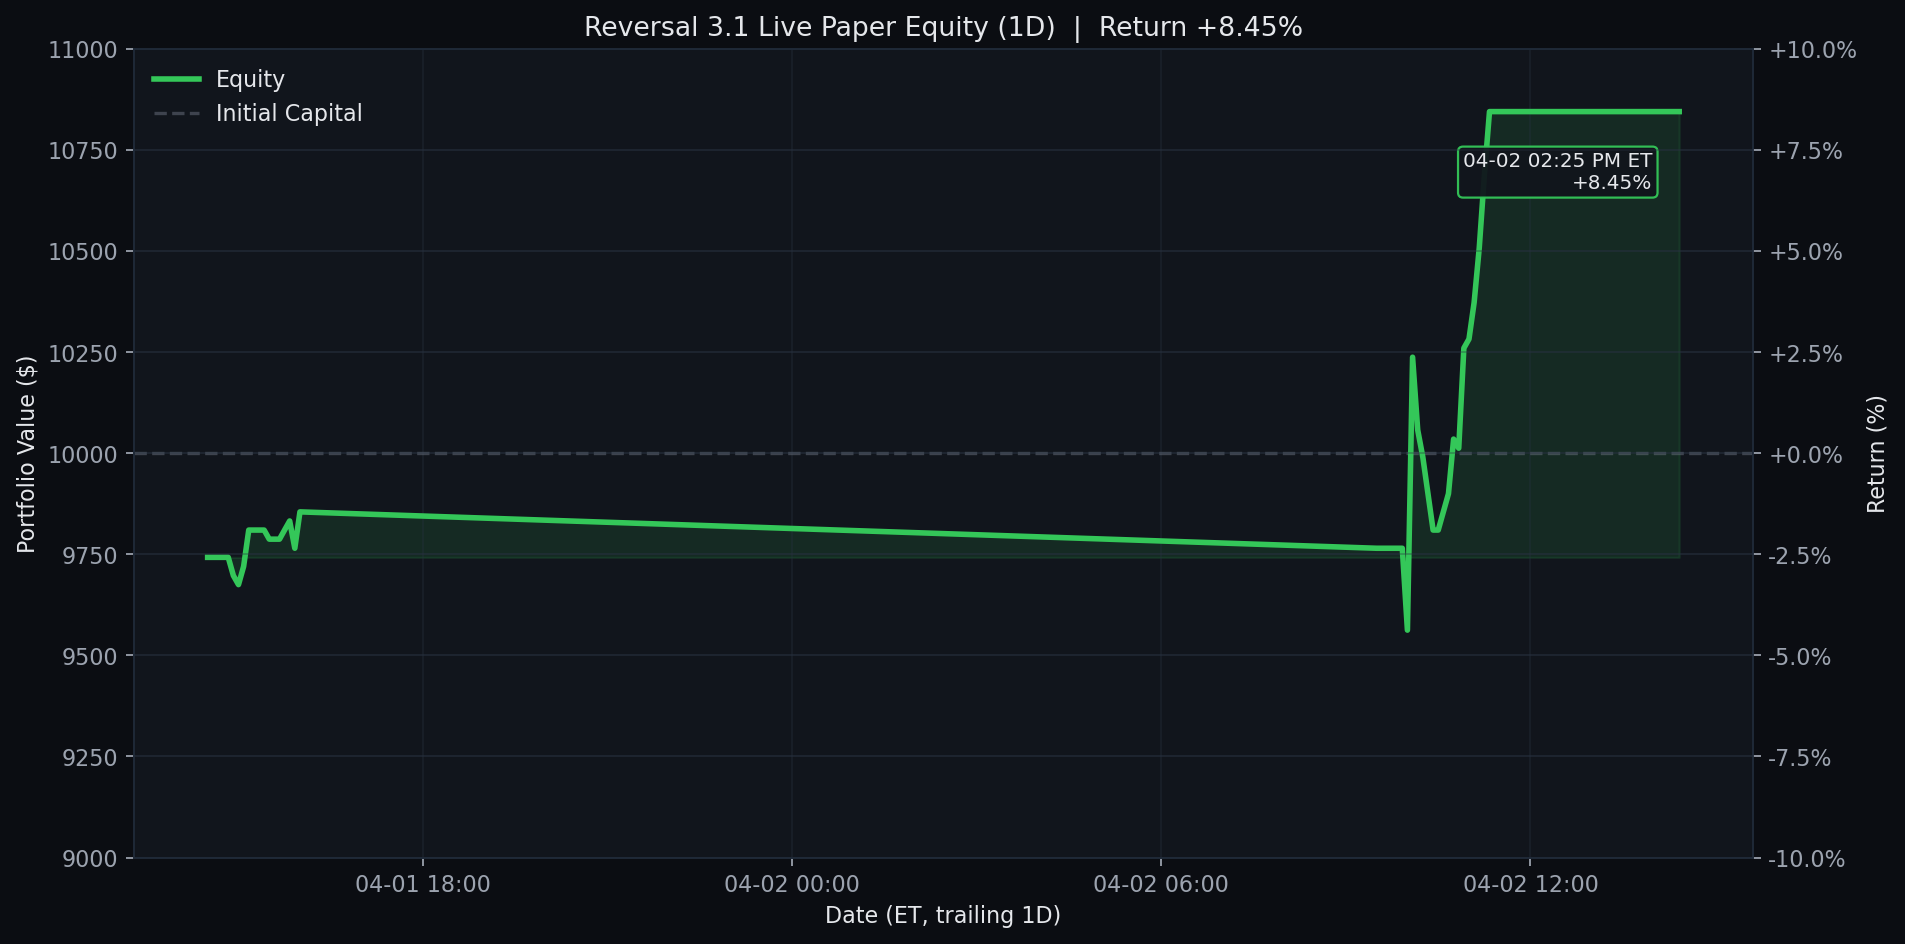
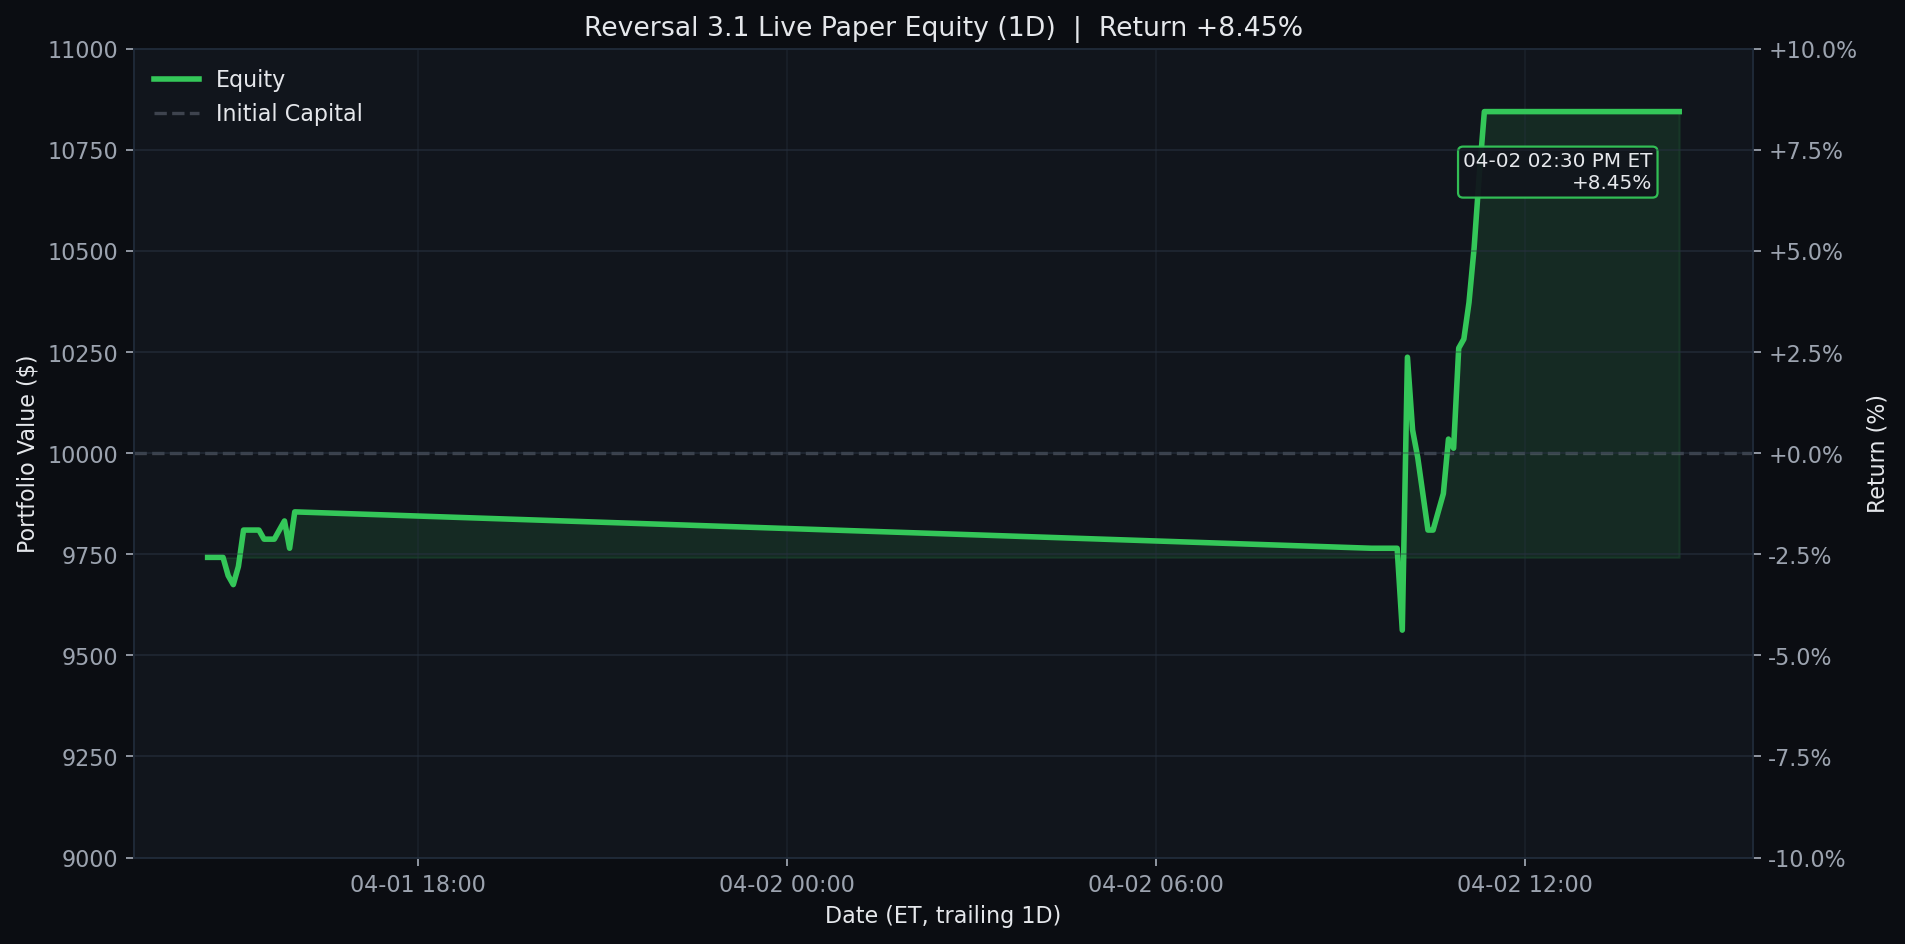
Update Reversal 3.1 live paper test 2026-04-02 14:30 ET

diff --git a/results/reversal_3_1_live/README.md b/results/reversal_3_1_live/README.md
@@ -1,6 +1,6 @@
 # Reversal 3.1 Live Paper Test
 
-Last updated (ET): `2026-04-02 14:25:06 EDT`
+Last updated (ET): `2026-04-02 14:30:05 EDT`
 Last processed slot: `manage_1430`
 
 ## Active Configuration
@@ -40,24 +40,25 @@ ticker     contract_symbol entry_trade_date_et exit_trade_date_et  entry_option_
 
 ```text
 ticker  success_rate_%  matched_signals  current_drop_%  target_rebound_$  target_price  rolling_sigma_20d_%  call_candidate
-   WDC           97.22               36            1.59              3.30        296.31                91.06            True
-  ABNB           92.50               40            0.67              0.59        124.94                36.75            True
-  DXCM           91.89               37            1.28              0.56         62.13                31.67            True
-  MPWR           91.89               37            0.51              3.96       1117.81                56.57            True
-  UPRO           90.62               32            0.88              0.61         98.91                57.18            True
-  SNPS           89.13               46            0.59              1.65        396.03                35.88            True
-   MAR           88.46               26            1.02              2.39        332.44                28.45            True
-  GILD           88.00               25            0.82              0.81        139.95                21.47            True
-  KLAC           87.50               32            1.13             11.99       1514.70                56.48            True
-  ORLY           87.50               32            0.83              0.54         91.87                22.81            True
-  FAST           87.50               24            1.19              0.39         46.46                21.97            True
-  CDNS           85.71               28            1.79              3.51        278.69                26.25            True
+   WDC           97.22               36            1.38              2.88        296.49                91.06            True
+  ASML           92.86               14            2.81             26.78       1348.28                52.01            True
+  ABNB           92.50               40            0.66              0.58        124.94                36.75            True
+  UPRO           92.31               39            0.74              0.51         98.95                57.18            True
+  DXCM           91.89               37            1.30              0.57         62.13                31.67            True
+  MPWR           91.89               37            0.52              4.07       1117.77                56.57            True
+  SNPS           89.13               46            0.54              1.51        396.09                35.88            True
+   MAR           88.89               27            0.98              2.29        332.48                28.45            True
+  ORLY           88.57               35            0.71              0.46         91.90                22.81            True
+  KLAC           87.50               32            1.10             11.69       1514.83                56.48            True
+  FAST           87.50               24            1.20              0.39         46.46                21.97            True
+  GILD           87.50               24            0.86              0.85        139.94                21.47            True
 ```
 
 ## Recent Events
 
 ```text
                     timestamp_et        slot   event_type                          detail
+2026-04-02T14:30:05.929668-04:00 manage_1430 slot_skipped {"reason": "already_processed"}
 2026-04-02T14:25:06.347985-04:00 manage_1430 slot_skipped {"reason": "already_processed"}
 2026-04-02T14:10:05.893357-04:00 manage_1400 slot_skipped {"reason": "already_processed"}
 2026-04-02T14:05:05.889867-04:00 manage_1400 slot_skipped {"reason": "already_processed"}
@@ -67,7 +68,6 @@ ticker  success_rate_%  matched_signals  current_drop_%  target_rebound_$  targe
 2026-04-02T13:35:05.898186-04:00 manage_1330 slot_skipped {"reason": "already_processed"}
 2026-04-02T13:30:05.883847-04:00 manage_1330 slot_skipped {"reason": "already_processed"}
 2026-04-02T13:25:05.885731-04:00 manage_1330 slot_skipped {"reason": "already_processed"}
-2026-04-02T13:10:05.901781-04:00 manage_1300 slot_skipped {"reason": "already_processed"}
 ```
 
 ## Equity Curves

diff --git a/README.md b/README.md
@@ -3,7 +3,7 @@
 <!-- reversal-3.1-live:start -->
 ## Reversal 3.1 Live Paper Test
 
-- Last updated (ET): `2026-04-02 14:25:06 EDT`
+- Last updated (ET): `2026-04-02 14:30:05 EDT`
 - Equity: `$10,845.00` | Realized: `$845.00` | Unrealized: `$0.00` | Open positions: `0`
 - Today closed trades: `1`
 - Current slot: `manage_1430`
